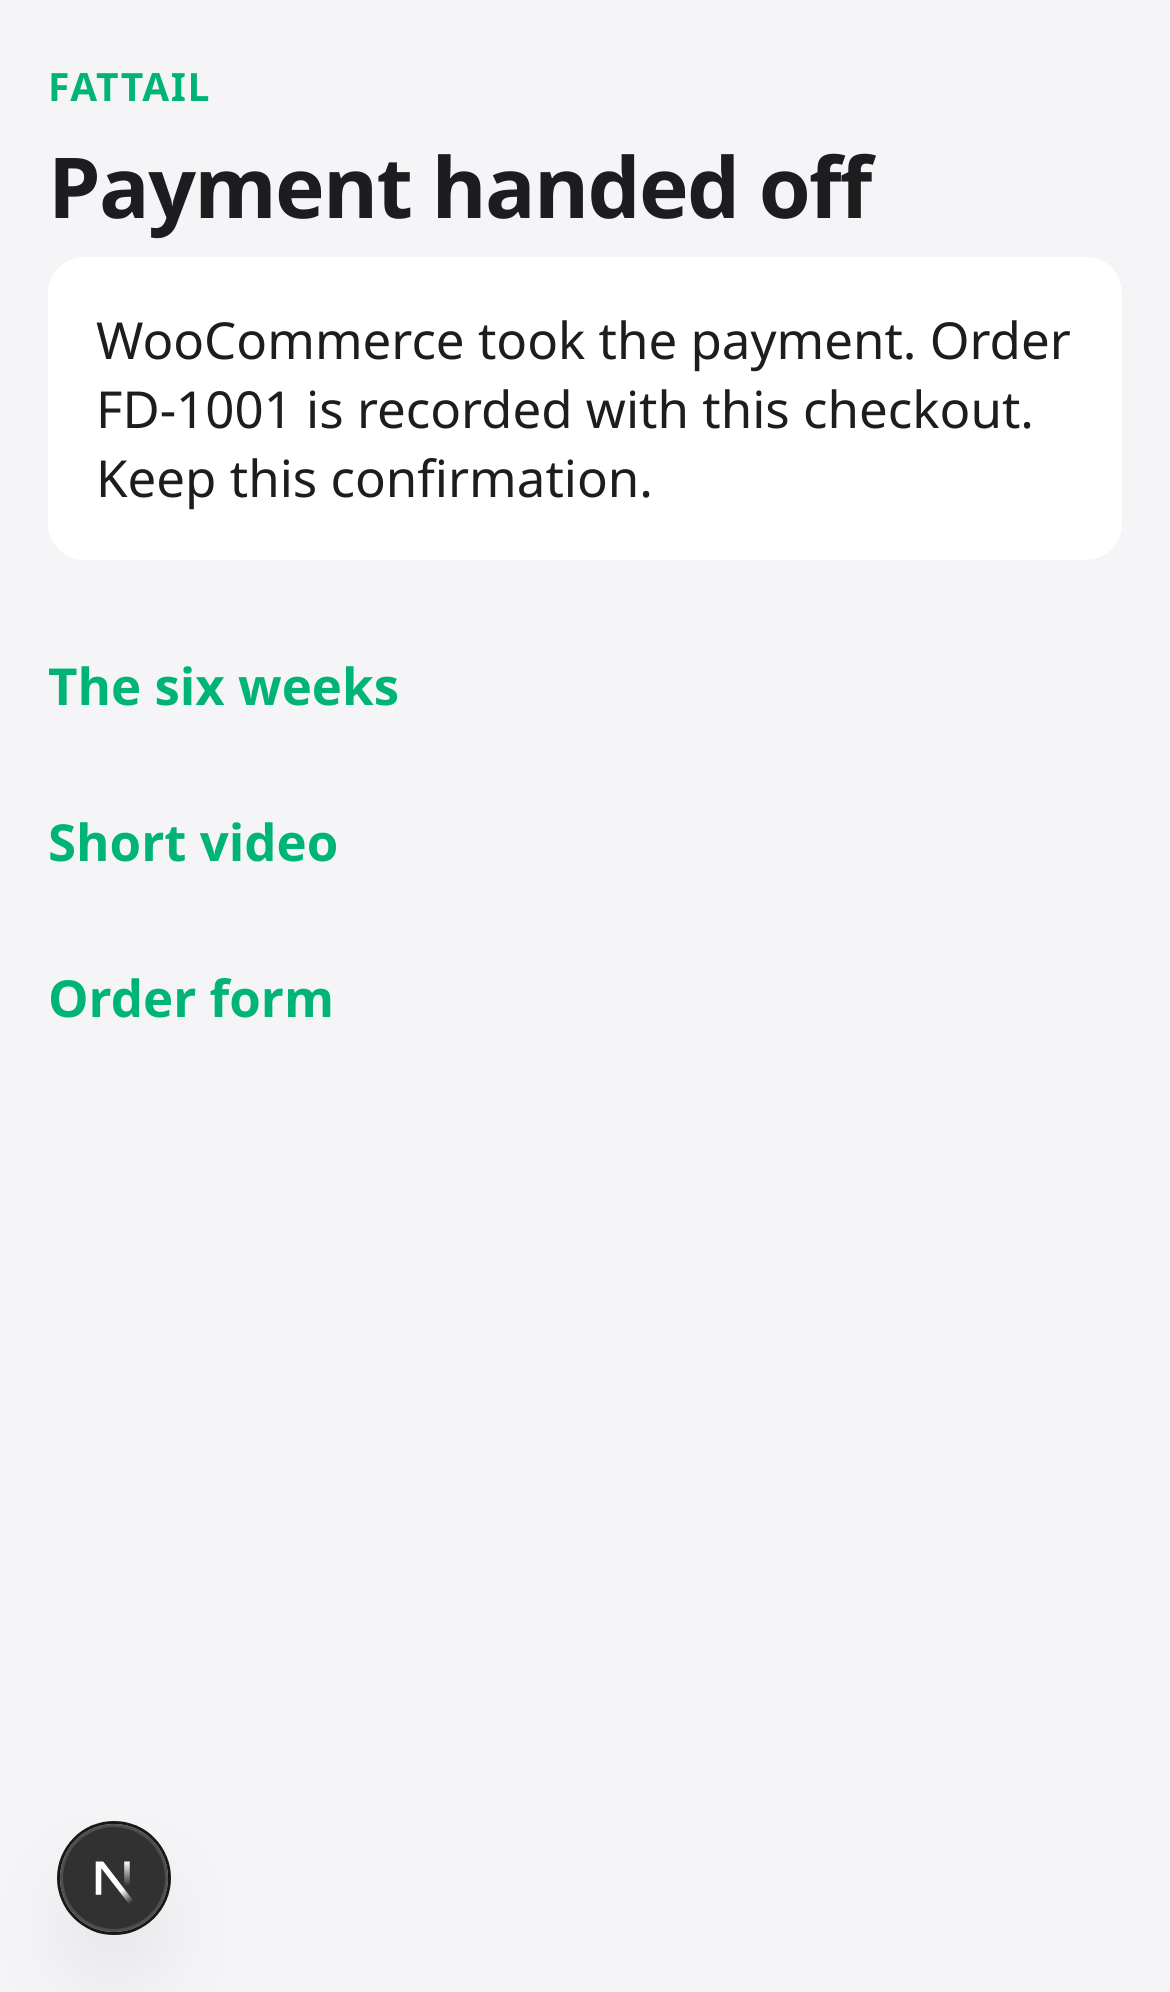
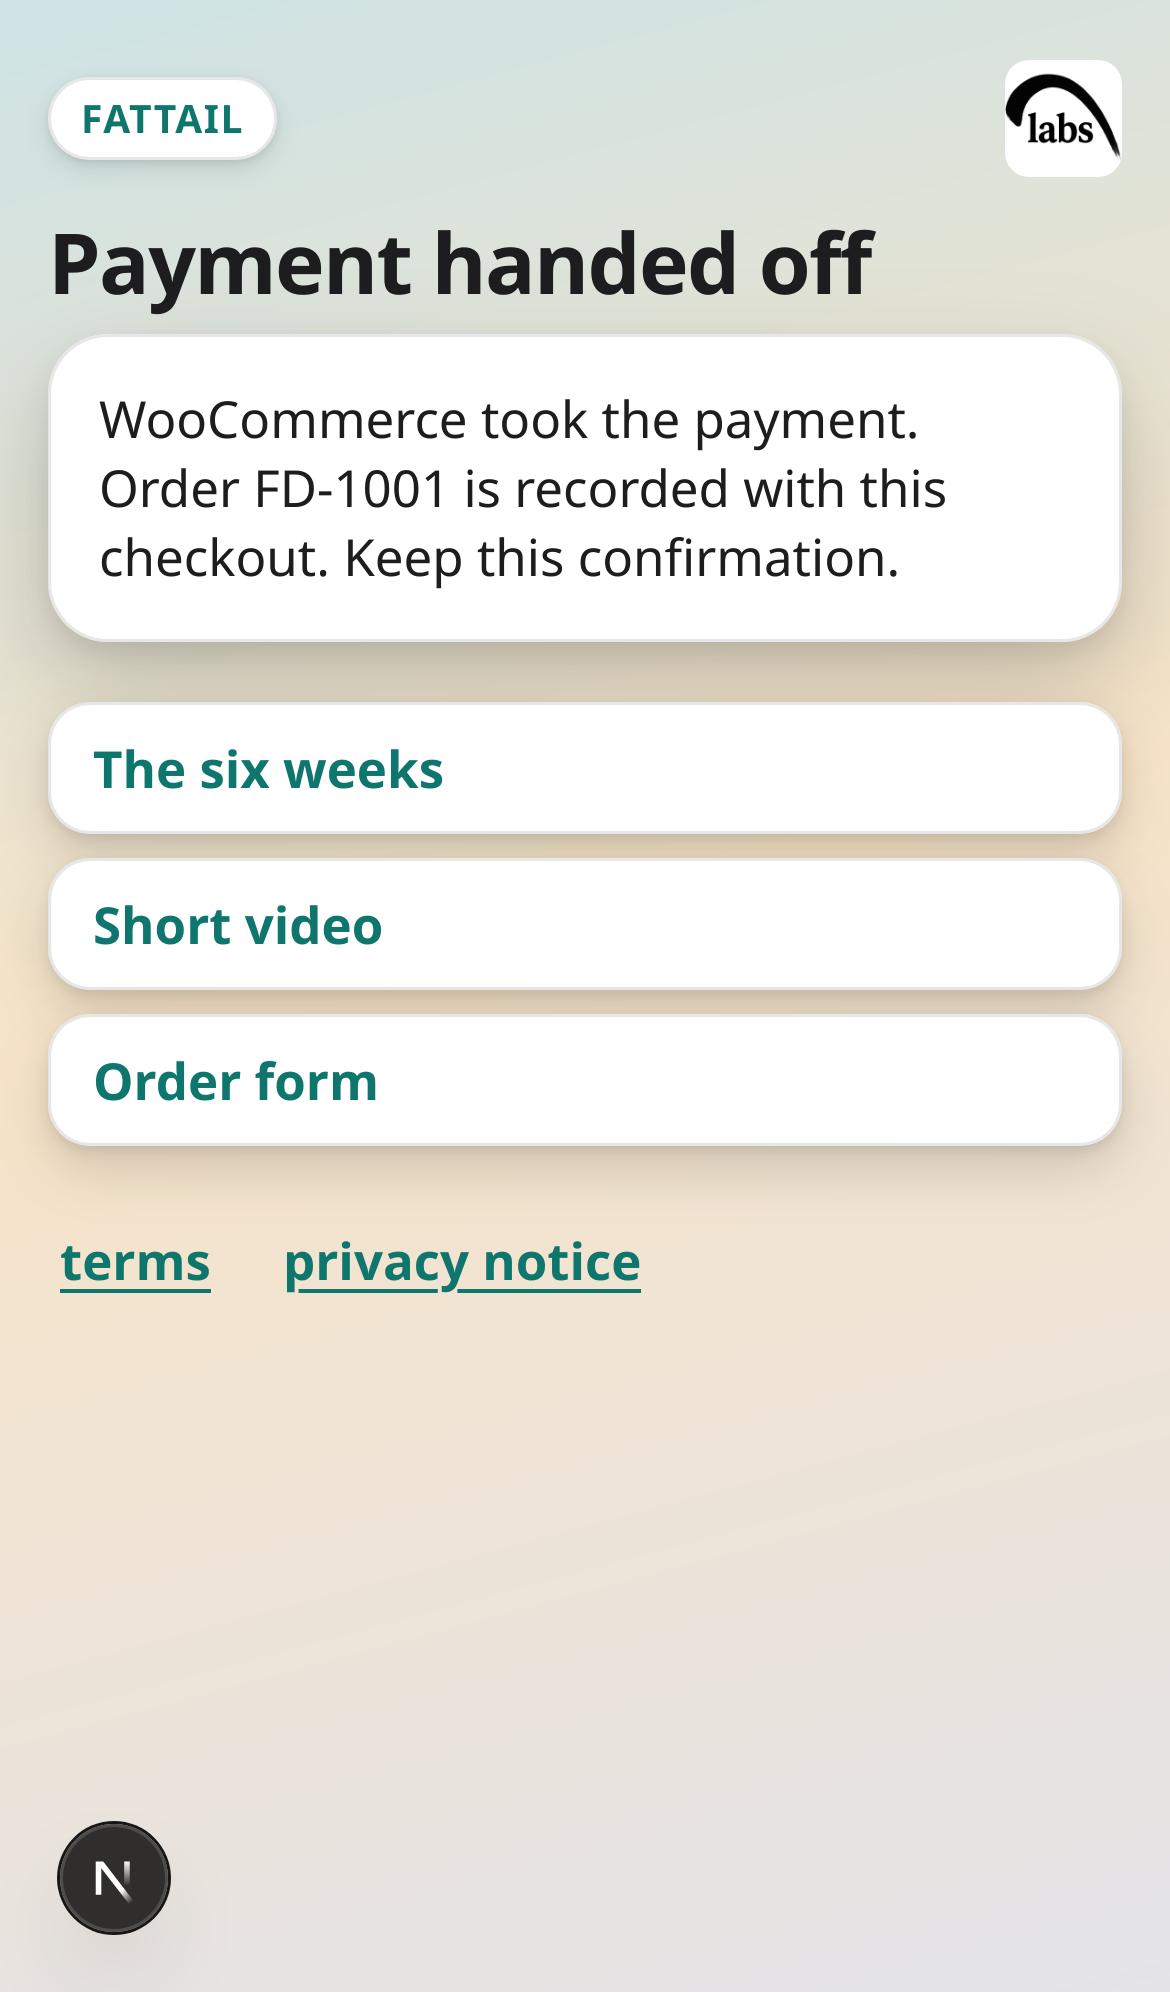
test(front-door): refresh order screenshots without the dispute paragraph
The acceptance row is inside the product card. Price, the Observer
renewal line, and the checkout button stay on the form.

diff --git a/agents/p-front-door/gate-reports/FD-ECHO.md b/agents/p-front-door/gate-reports/FD-ECHO.md
@@ -8,7 +8,7 @@
 ## What the screenshots show
 
 Before: `screenshots/before-iphone.png`, `before-pixel.png`, `before-desktop.png` (flat canvas).
-After: `screenshots/after-iphone.png`, `after-pixel.png`, `after-desktop.png`.
+After: `screenshots/after-iphone.png`, `after-pixel.png`, `after-desktop.png`. The order shots in this folder were recaptured with the dispute paragraph off the form and the acceptance row inside the product card.
 
 Header text stays on the left. The logo on the right is the existing file `web/public/brand/fattail-labs-logo.jpg` (the same asset `SiteHeader` uses), alt text "FatTail Labs", displayed at `clamp(32px, 10vw, 40px)` with `object-fit: contain`.
 
